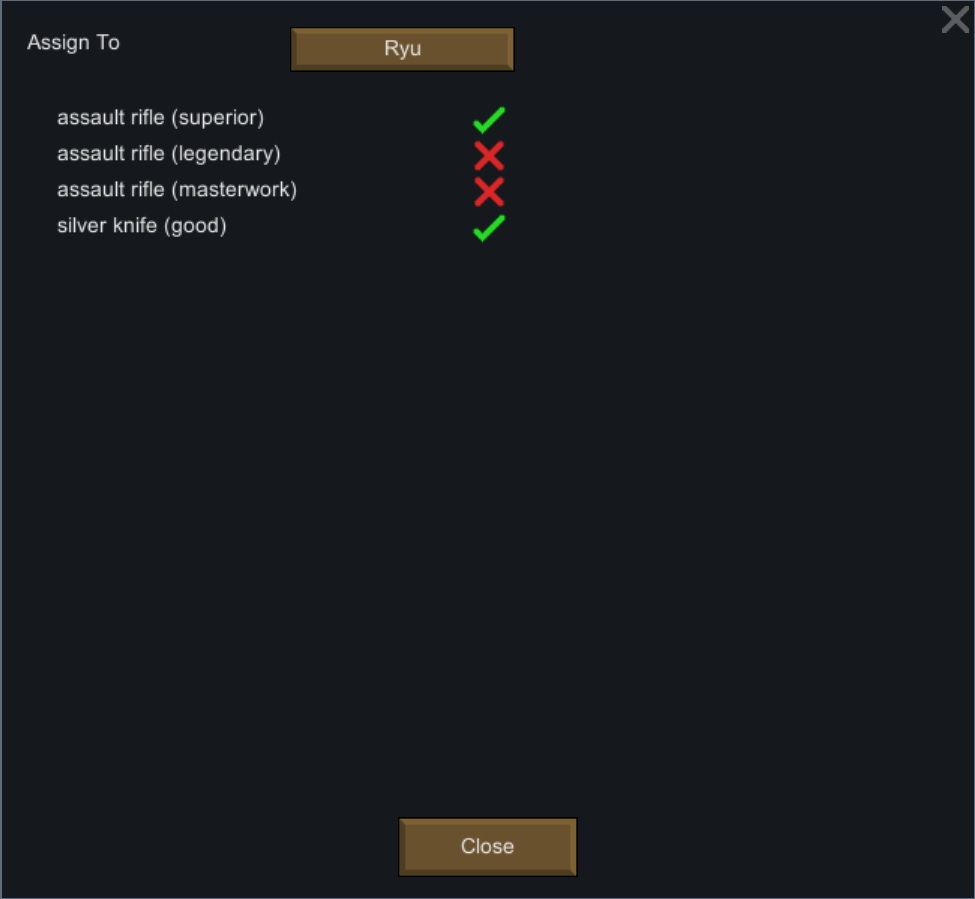
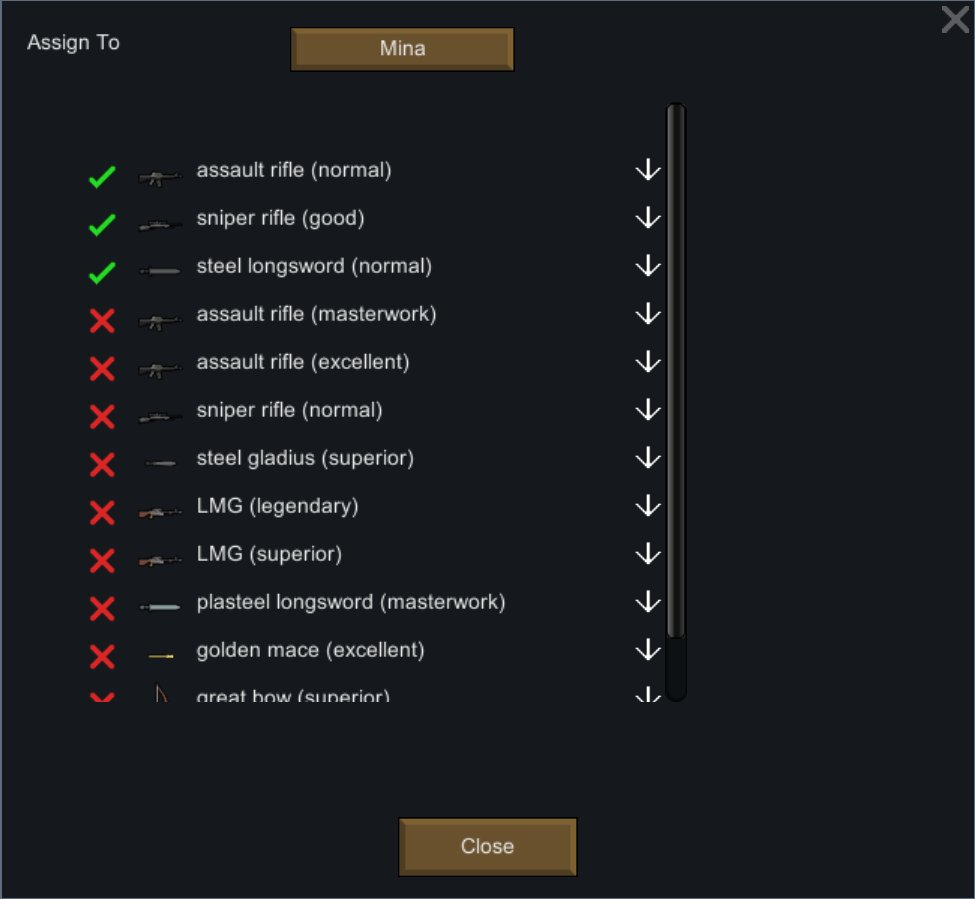
Added the ability to drop one weapon at a time

diff --git a/Source/UI/AssignUI.cs b/Source/UI/AssignUI.cs
@@ -10,6 +10,8 @@ namespace WeaponStorage.UI
     {
         private readonly Building_WeaponStorage weaponStorage;
 
+        public static Texture2D DropTexture;
+
         private Pawn selectedPawn = null;
         private List<WeaponSelected> PossibleWeapons = null;
 
@@ -77,6 +79,8 @@ namespace WeaponStorage.UI
 #if DEBUG
             ++i;
 #endif
+            GUI.color = Color.white;
+            Text.Font = GameFont.Small;
             try
             {
                 Widgets.Label(new Rect(0, 0, 150, 30), "WeaponStorage.AssignTo".Translate());
@@ -131,21 +135,35 @@ namespace WeaponStorage.UI
                     Find.WindowStack.Add(new FloatMenu(options));
                 }
 
+                const int HEIGHT = 30;
+                const int BUFFER = 2;
                 int count = (this.PossibleWeapons != null) ? this.PossibleWeapons.Count : ((this.weaponStorage.StoredWeapons != null) ? this.weaponStorage.StoredWeapons.Count : 0);
-                Rect r = new Rect(0, 20, 334, count * 26);
-                scrollPosition = GUI.BeginScrollView(new Rect(40, 50, 350, 400), scrollPosition, r);
-                Listing_Standard lst = new Listing_Standard();
-                lst.Begin(r);
-
+                Rect r = new Rect(0, 20, 384, (count + 1) * (HEIGHT + BUFFER));
+                scrollPosition = GUI.BeginScrollView(new Rect(40, 50, 400, 400), scrollPosition, r);
+                
                 if (this.selectedPawn != null && this.PossibleWeapons != null)
                 {
                     for (int i = 0; i < this.PossibleWeapons.Count; ++i)
                     {
-                        WeaponSelected selected = this.PossibleWeapons[i];
-                        bool isChecked = selected.isChecked;
-                        lst.CheckboxLabeled(selected.thing.Label, ref isChecked);
-                        selected.isChecked = isChecked;
-                        this.PossibleWeapons[i] = selected;
+                        GUI.BeginGroup(new Rect(0, 55 + i * (HEIGHT + BUFFER), r.width, HEIGHT));
+                        WeaponSelected weapon = this.PossibleWeapons[i];
+
+                        bool isChecked = weapon.isChecked;
+                        Widgets.Checkbox(0, (HEIGHT - 20) / 2, ref isChecked, 20);
+                        weapon.isChecked = isChecked;
+
+                        Widgets.ThingIcon(new Rect(34, 0, HEIGHT, HEIGHT), weapon.thing);
+
+                        Widgets.Label(new Rect(38 + HEIGHT + 5, 0, 250, HEIGHT), weapon.thing.Label);
+
+                        if (Widgets.ButtonImage(new Rect(r.xMax - 20, 0, 20, 20), DropTexture))
+                        {
+                            this.PossibleWeapons.RemoveAt(i);
+                            this.weaponStorage.Remove(weapon.thing);
+                            break;
+                        }
+                        this.PossibleWeapons[i] = weapon;
+                        GUI.EndGroup();
                     }
                 }
                 else
@@ -156,6 +174,7 @@ namespace WeaponStorage.UI
                         Log.Warning("WeaponStorage DoWindowContents: Display non-checkbox weapons. Count: " + this.weaponStorage.StoredWeapons.Count);
                     }
 #endif
+                    int i = 0;
                     foreach (ThingWithComps t in this.weaponStorage.StoredWeapons)
                     {
 #if DEBUG
@@ -164,11 +183,22 @@ namespace WeaponStorage.UI
                             Log.Warning("-" + t.Label);
                         }
 #endif
-                        lst.Label(t.Label);
+                        GUI.BeginGroup(new Rect(0, 55 + i * (HEIGHT + BUFFER), r.width, HEIGHT));
+
+                        Widgets.ThingIcon(new Rect(34, 0, HEIGHT, HEIGHT), t);
+
+                        Widgets.Label(new Rect(38 + HEIGHT + 5, 0, 250, HEIGHT), t.Label);
+
+                        if (Widgets.ButtonImage(new Rect(r.xMax - 20, 0, 20, 20), DropTexture))
+                        {
+                            this.weaponStorage.Remove(t);
+                            break;
+                        }
+                        GUI.EndGroup();
+                        ++i;
                     }
                 }
-
-                lst.End();
+                
                 GUI.EndScrollView();
             }
             catch (Exception e)

diff --git a/Source/Building_WeaponStorage.cs b/Source/Building_WeaponStorage.cs
@@ -84,7 +84,10 @@ namespace WeaponStorage
             {
                 if (this.StoredWeapons != null)
                 {
-                    DropWeapons(this.StoredWeapons);
+                    foreach(ThingWithComps t in this.storedWeapons)
+                    {
+                        this.DropThing(t, true);
+                    }
                     this.StoredWeapons.Clear();
                 }
             }
@@ -92,27 +95,6 @@ namespace WeaponStorage
             {
                 Log.Error(
                     this.GetType().Name + ".Dispose\n" +
-                    e.GetType().Name + " " + e.Message + "\n" +
-                    e.StackTrace);
-            }
-        }
-
-        private void DropWeapons(List<ThingWithComps> weapons, bool makeForbidden = true)
-        {
-            try
-            {
-                if (weapons != null)
-                {
-                    foreach (ThingWithComps t in weapons)
-                    {
-                        this.DropThing(t, makeForbidden);
-                    }
-                }
-            }
-            catch (Exception e)
-            {
-                Log.Error(
-                    this.GetType().Name + ".DropApparel\n" +
                     e.GetType().Name + " " + e.Message + "\n" +
                     e.StackTrace);
             }
@@ -290,8 +272,14 @@ namespace WeaponStorage
             a.action =
                 delegate
                 {
-                    this.DropWeapons(this.storedWeapons, false);
-                    this.storedWeapons.Clear();
+                    if (this.StoredWeapons != null)
+                    {
+                        foreach (ThingWithComps t in this.storedWeapons)
+                        {
+                            this.DropThing(t, false);
+                        }
+                        this.StoredWeapons.Clear();
+                    }
                 };
             a.groupKey = groupKey + 1;
             l.Add(a);

diff --git a/Source/Main.cs b/Source/Main.cs
@@ -15,6 +15,8 @@ namespace WeaponStorage
             var harmony = HarmonyInstance.Create("com.weaponstorage.rimworld.mod");
             harmony.PatchAll(Assembly.GetExecutingAssembly());
 
+            UI.AssignUI.DropTexture = ContentFinder<UnityEngine.Texture2D>.Get("UI/drop", true);
+
             Log.Message("WeaponStorage: Adding Harmony Postfix to Pawn_DraftController.GetGizmos");
         }
     }
